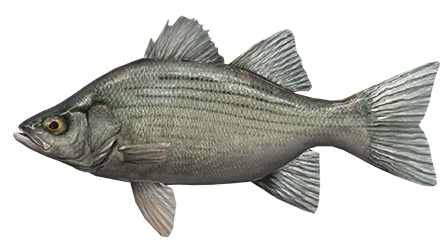
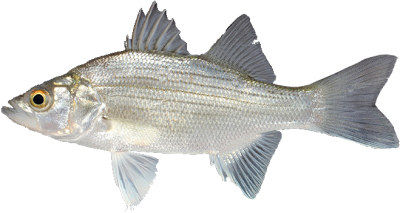
reskin loc 3

diff --git a/lib/global/load_images.js b/lib/global/load_images.js
@@ -77,8 +77,8 @@ async function preloadFishImages() {
     Promise.all(tasks).then(() => console.log('preloaded fish images!'));
 }
 async function loadFishImage(id, name) {
-    IMAGES.fish[id.toString()] = await loadImage(api.images.fetchFishImgUrl(name));
-    //IMAGES.fish[id.toString()] = await loadImage(`http://localhost/images/tmp/${name.replace(/ /g, '_')}.png`);
+    //IMAGES.fish[id.toString()] = await loadImage(api.images.fetchFishImgUrl(name));
+    IMAGES.fish[id.toString()] = await loadImage(`http://localhost/images/tmp/${name.replace(/ /g, '_')}.png`);
 }
 
 async function preloadAquariumImages() {
